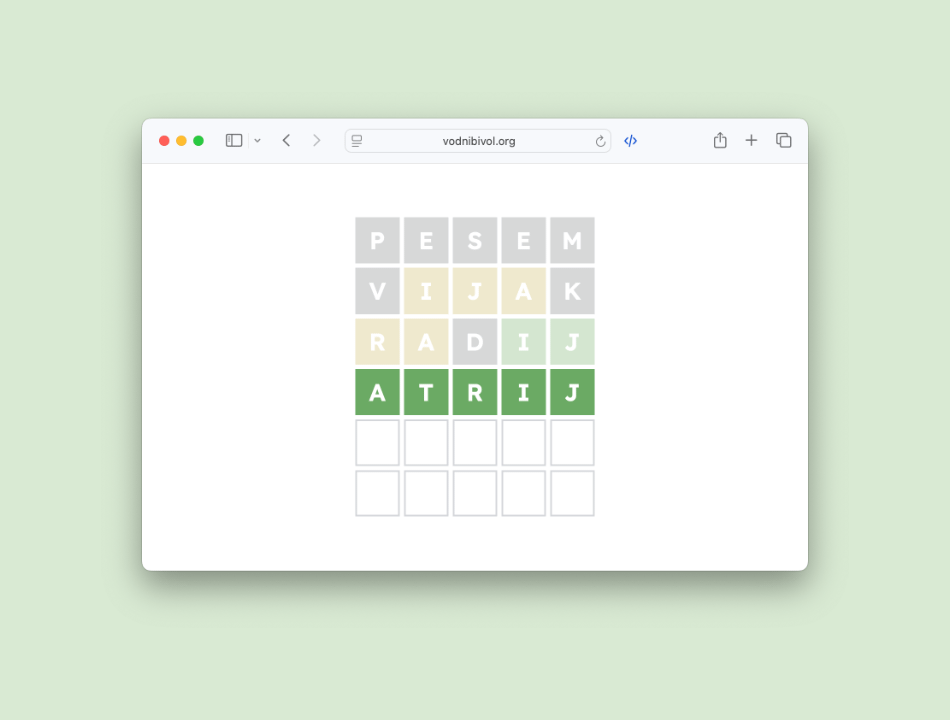
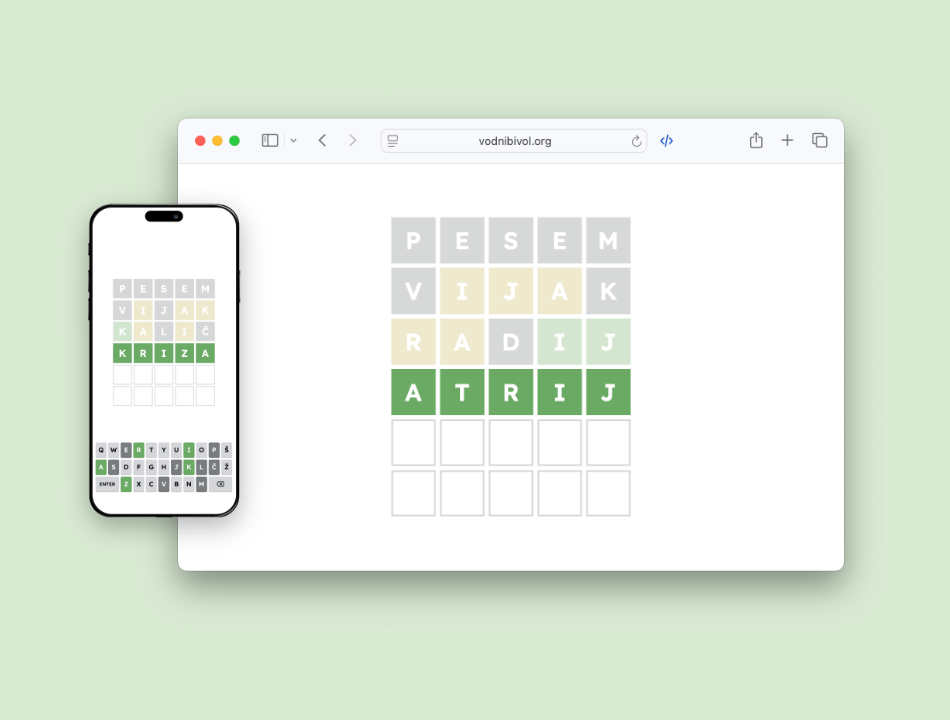
added og tags; modified some descriptions; iphone screenshots

diff --git a/portfolio/css/style.css b/portfolio/css/style.css
@@ -1,1 +1,1 @@
-@font-face{font-display:swap;font-family:"Poppins";font-style:normal;font-weight:300;src:url("../fonts/poppins-v23-latin-300.woff2") format("woff2")}@font-face{font-display:swap;font-family:"Poppins";font-style:normal;font-weight:400;src:url("../fonts/poppins-v23-latin-regular.woff2") format("woff2")}@font-face{font-display:swap;font-family:"Poppins";font-style:normal;font-weight:500;src:url("../fonts/poppins-v23-latin-500.woff2") format("woff2")}@font-face{font-display:swap;font-family:"Poppins";font-style:normal;font-weight:600;src:url("../fonts/poppins-v23-latin-600.woff2") format("woff2")}@font-face{font-display:swap;font-family:"Poppins";font-style:normal;font-weight:700;src:url("../fonts/poppins-v23-latin-700.woff2") format("woff2")}*{font-family:"Poppins","Helvetica Neue",Helvetica,Arial,sans-serif;box-sizing:border-box;margin:0;padding:0}body{line-height:1.7;-webkit-font-smoothing:antialiased}img,picture,video,canvas,svg{display:block;max-width:100%}input,button,textarea,select{font:inherit}a{color:unset;text-decoration:none}.no-pointer{pointer-events:none;-webkit-user-select:none;-moz-user-select:none;user-select:none}.noise::after{content:"";position:absolute;top:0;left:0;height:100%;width:100%;background:url("../img/noise.svg");background-size:100px;mix-blend-mode:hard-light;filter:brightness(0.8);opacity:.9;pointer-events:none;z-index:2}header{z-index:100;text-transform:uppercase;position:sticky;top:0;background:#000;display:flex;justify-content:space-between;align-items:center;padding:0 25px 0 15px;transition:filter .3s}header.white{filter:invert(1)}header .logo{font-size:22px;background:#000;padding:3px 9px;height:50px;width:50px;font-weight:700;display:flex;justify-content:center;align-items:center;padding-top:5px}@keyframes jump{0%{transform:translateY(0px)}100%{transform:translateY(-10px)}}header .logo img{width:20px}header .logo:hover{filter:invert(1)}header .logo:hover img{animation:jump .3s cubic-bezier(0.33, 1, 0.68, 1) alternate infinite}header nav.links{height:50px;display:flex;justify-content:center;align-items:center}header nav.links a{height:100%;padding:0 20px;text-align:center;display:flex;justify-content:center;align-items:center;font-weight:500;font-size:1rem;color:#fff}header nav.links a:hover{background:#fff;color:#000}section{padding:100px 50px;display:flex;justify-content:center;align-items:center}section h2{margin-bottom:30px;font-size:2.2rem;font-weight:600}section .content{width:100%;max-width:800px}section#hero{min-height:80vh;position:relative;color:#fff;border-color:#fff;background:#fb8a51;overflow:hidden}section#hero img.bg{z-index:1;position:absolute;top:0;left:0;height:100%;width:100%;-o-object-fit:cover;object-fit:cover;-o-object-position:center right;object-position:center right}section#hero .content{display:flex;align-items:center;justify-content:space-evenly;gap:30px;z-index:3}section#hero .content .left .img{width:280px;height:280px;overflow:hidden;border-radius:50%;z-index:999}section#hero .content .left .img img{width:100%;height:100%;-o-object-fit:cover;object-fit:cover;-o-object-position:center;object-position:center}section#hero .content .right{max-width:350px;display:flex;flex-direction:column}section#hero .content .right h1{margin-bottom:10px;font-size:2.3rem;font-weight:300}section#hero .content .right p{margin-bottom:20px;font-weight:400}section#hero .content .right .links{display:flex;gap:10px}section#hero .content .right .links a{display:flex;justify-content:center;align-items:center;gap:5px;border:2px solid #fff;padding:2px 7px;border-radius:5px;font-weight:700;font-size:.8rem;text-transform:uppercase;cursor:pointer;-webkit-user-select:none;-moz-user-select:none;user-select:none}section#hero .content .right .links a img{width:15px}section#hero .content .right .links a:hover{background:#fff;color:#000;mix-blend-mode:screen}section#hero .content .right .links a:hover img{filter:invert(1)}section#about-me{background:#fff;min-height:70vh}section#about-me p{margin-bottom:30px}section#projects{background:#000;color:#fff}section#projects .content>p{margin-bottom:30px}section#projects .content .project-grid{margin-top:3rem;display:grid;grid-template-columns:repeat(2, 1fr);row-gap:4rem;-moz-column-gap:clamp(1rem,4vw,3rem);column-gap:clamp(1rem,4vw,3rem);justify-content:center}section#projects .content .project-grid .grid-item{display:flex;flex-direction:column}section#projects .content .project-grid .grid-item .img{border-radius:8px;overflow:hidden;aspect-ratio:16/11;background:#fff;position:relative;cursor:pointer}section#projects .content .project-grid .grid-item .img img.thumbnail{width:100%;height:100%;-o-object-fit:cover;object-fit:cover;-o-object-position:center center;object-position:center center}section#projects .content .project-grid .grid-item .img img.open-icon{position:absolute;top:50%;left:50%;transform:translate(-50%, -50%);width:25px;opacity:.6;display:none}section#projects .content .project-grid .grid-item .img:hover img.thumbnail{opacity:.8}section#projects .content .project-grid .grid-item .img:hover img.open-icon{display:block}section#projects .content .project-grid .grid-item .title{display:flex;justify-content:flex-start;align-items:baseline;gap:10px}section#projects .content .project-grid .grid-item .title h3{margin-top:20px}section#projects .content .project-grid .grid-item .title h3:hover{text-decoration:underline}section#projects .content .project-grid .grid-item .title a.gh-link{display:flex;align-items:center;gap:5px;border-radius:30px;padding:2px;height:19px}section#projects .content .project-grid .grid-item .title a.gh-link img{width:15px}section#projects .content .project-grid .grid-item .title a.gh-link span{text-transform:uppercase;font-weight:700;font-size:11px;color:#000;display:none}section#projects .content .project-grid .grid-item .title a.gh-link:hover{padding:2px 6px 2px 2px;background:#fff}section#projects .content .project-grid .grid-item .title a.gh-link:hover img{filter:invert(1)}section#projects .content .project-grid .grid-item .title a.gh-link:hover span{display:block}footer{min-height:150px;display:flex;justify-content:center;align-items:center;position:relative;overflow:hidden;gap:5rem}footer img.bg{position:absolute;left:0;top:0;height:100%;width:100%;-o-object-fit:cover;object-fit:cover;-o-object-position:center;object-position:center;filter:hue-rotate(230deg);z-index:-1}footer a.contact-text{z-index:3;display:flex;justify-content:center;align-items:center;gap:10px;color:#fff}footer a.contact-text:hover{text-decoration:underline}footer a.contact-text img{width:14px}footer a.contact-text span{font-family:"Menlo",monospace;font-size:.9rem;font-weight:500;z-index:10}@media screen and (max-width: 700px){header nav.links a{padding:0 10px}section#hero{height:unset}section#hero .content{flex-direction:column-reverse}section#projects .content .project-grid{display:flex;flex-direction:column}footer{flex-direction:column;gap:1rem}}@media screen and (max-width: 500px){section#hero{padding-top:0}section#hero .content .left .img{border-radius:0;width:100vw;margin-bottom:3rem}}
+@font-face{font-display:swap;font-family:"Poppins";font-style:normal;font-weight:300;src:url("../fonts/poppins-v23-latin-300.woff2") format("woff2")}@font-face{font-display:swap;font-family:"Poppins";font-style:normal;font-weight:400;src:url("../fonts/poppins-v23-latin-regular.woff2") format("woff2")}@font-face{font-display:swap;font-family:"Poppins";font-style:normal;font-weight:500;src:url("../fonts/poppins-v23-latin-500.woff2") format("woff2")}@font-face{font-display:swap;font-family:"Poppins";font-style:normal;font-weight:600;src:url("../fonts/poppins-v23-latin-600.woff2") format("woff2")}@font-face{font-display:swap;font-family:"Poppins";font-style:normal;font-weight:700;src:url("../fonts/poppins-v23-latin-700.woff2") format("woff2")}*{font-family:"Poppins","Helvetica Neue",Helvetica,Arial,sans-serif;box-sizing:border-box;margin:0;padding:0}body{line-height:1.7;-webkit-font-smoothing:antialiased}img,picture,video,canvas,svg{display:block;max-width:100%}input,button,textarea,select{font:inherit}a{color:unset;text-decoration:none}.no-pointer{pointer-events:none;-webkit-user-select:none;-moz-user-select:none;user-select:none}.noise::after{content:"";position:absolute;top:0;left:0;height:100%;width:100%;background:url("../img/noise.svg");background-size:100px;mix-blend-mode:hard-light;filter:brightness(0.8);opacity:.9;pointer-events:none;z-index:2}header{z-index:100;text-transform:uppercase;position:sticky;top:0;background:#000;display:flex;justify-content:space-between;align-items:center;padding:0 25px 0 15px;transition:filter .3s}header.white{filter:invert(1)}header .logo{font-size:22px;background:#000;padding:3px 9px;height:50px;width:50px;font-weight:700;display:flex;justify-content:center;align-items:center;padding-top:5px}@keyframes jump{0%{transform:translateY(0px)}100%{transform:translateY(-10px)}}header .logo img{width:20px}header .logo:hover{filter:invert(1)}header .logo:hover img{animation:jump .3s cubic-bezier(0.33, 1, 0.68, 1) alternate infinite}header nav.links{height:50px;display:flex;justify-content:center;align-items:center}header nav.links a{height:100%;padding:0 20px;text-align:center;display:flex;justify-content:center;align-items:center;font-weight:500;font-size:1rem;color:#fff}header nav.links a:hover{background:#fff;color:#000}section{padding:100px 50px;display:flex;justify-content:center;align-items:center}section h2{margin-bottom:30px;font-size:2.2rem;font-weight:600}section .content{width:100%;max-width:800px}section#hero{min-height:80vh;position:relative;color:#fff;border-color:#fff;background:#fb8a51;overflow:hidden}section#hero img.bg{z-index:1;position:absolute;top:0;left:0;height:100%;width:100%;-o-object-fit:cover;object-fit:cover;-o-object-position:center right;object-position:center right}section#hero .content{display:flex;align-items:center;justify-content:space-evenly;gap:30px;z-index:3}section#hero .content .right .img{width:280px;height:280px;overflow:hidden;border-radius:50%;z-index:999}section#hero .content .right .img img{width:100%;height:100%;-o-object-fit:cover;object-fit:cover;-o-object-position:center;object-position:center}section#hero .content .left{max-width:390px;display:flex;flex-direction:column}section#hero .content .left h1{margin-bottom:10px;font-size:2.1rem;font-weight:300}section#hero .content .left p{margin-bottom:20px;font-weight:400;font-size:1.1rem}section#hero .content .left .links{display:flex;gap:10px}section#hero .content .left .links a{display:flex;justify-content:center;align-items:center;gap:5px;border:2px solid #fff;padding:2px 7px;border-radius:5px;font-weight:700;font-size:.8rem;text-transform:uppercase;cursor:pointer;-webkit-user-select:none;-moz-user-select:none;user-select:none}section#hero .content .left .links a img{width:15px}section#hero .content .left .links a:hover{background:#fff;color:#000;mix-blend-mode:screen}section#hero .content .left .links a:hover img{filter:invert(1)}section#about-me{background:#fff;min-height:70vh}section#about-me p{margin-bottom:30px}section#projects{background:#000;color:#fff}section#projects .content>p{margin-bottom:30px}section#projects .content .project-grid{margin-top:3rem;display:grid;grid-template-columns:repeat(2, 1fr);row-gap:4rem;-moz-column-gap:clamp(1rem,4vw,3rem);column-gap:clamp(1rem,4vw,3rem);justify-content:center}section#projects .content .project-grid .grid-item{display:flex;flex-direction:column}section#projects .content .project-grid .grid-item .img{border-radius:8px;overflow:hidden;aspect-ratio:16/11;background:#fff;position:relative;cursor:pointer}section#projects .content .project-grid .grid-item .img img.thumbnail{width:100%;height:100%;-o-object-fit:cover;object-fit:cover;-o-object-position:center center;object-position:center center}section#projects .content .project-grid .grid-item .img img.open-icon{position:absolute;top:50%;left:50%;transform:translate(-50%, -50%);width:25px;opacity:.6;display:none}section#projects .content .project-grid .grid-item .img:hover img.thumbnail{opacity:.8}section#projects .content .project-grid .grid-item .img:hover img.open-icon{display:block}section#projects .content .project-grid .grid-item .title{display:flex;justify-content:flex-start;align-items:baseline;gap:10px}section#projects .content .project-grid .grid-item .title h3{margin-top:20px}section#projects .content .project-grid .grid-item .title h3:hover{text-decoration:underline}section#projects .content .project-grid .grid-item .title a.gh-link{display:flex;align-items:center;gap:5px;border-radius:30px;padding:2px;height:19px}section#projects .content .project-grid .grid-item .title a.gh-link img{width:15px}section#projects .content .project-grid .grid-item .title a.gh-link span{text-transform:uppercase;font-weight:700;font-size:11px;color:#000;display:none}section#projects .content .project-grid .grid-item .title a.gh-link:hover{padding:2px 6px 2px 2px;background:#fff}section#projects .content .project-grid .grid-item .title a.gh-link:hover img{filter:invert(1)}section#projects .content .project-grid .grid-item .title a.gh-link:hover span{display:block}footer{min-height:150px;display:flex;justify-content:center;align-items:center;position:relative;overflow:hidden;gap:5rem}footer img.bg{position:absolute;left:0;top:0;height:100%;width:100%;-o-object-fit:cover;object-fit:cover;-o-object-position:center;object-position:center;filter:hue-rotate(230deg);z-index:-1}footer a.contact-text{z-index:3;display:flex;justify-content:center;align-items:center;gap:10px;color:#fff}footer a.contact-text:hover{text-decoration:underline}footer a.contact-text img{width:14px}footer a.contact-text span{font-family:"Menlo",monospace;font-size:.9rem;font-weight:500;z-index:10}@media screen and (max-width: 700px){header nav.links a{padding:0 10px}section#hero{height:unset}section#hero .content{flex-direction:column-reverse}section#projects .content .project-grid{display:flex;flex-direction:column}footer{flex-direction:column;gap:1rem}}@media screen and (max-width: 500px){section#hero{padding-top:0}section#hero .content .right .img{border-radius:0;width:100vw;margin-bottom:3rem}}

diff --git a/portfolio/index.html b/portfolio/index.html
@@ -5,6 +5,13 @@
     <meta name="viewport" content="width=device-width, initial-scale=1.0" />
     <link rel="stylesheet" href="css/style.css" />
 
+    <!-- OPEN GRAPH -->
+    <meta property="og:type" content="website" />
+    <meta property="og:title" content="Filip Kokol | Portfolio" />
+    <meta property="og:url" content="http://vodnibivol.org/portfolio/" />
+    <meta property="og:image" content="https://www.vodnibivol.org/portfolio/img/og_card.jpg" />
+    <meta property="og:description" content="Filip's programming portfolio!" />
+
     <!-- PRELOAD FONTS -->
     <link rel="preload" href="fonts/poppins-v23-latin-300.woff2" as="font" type="font/woff2" crossorigin />
     <link rel="preload" href="fonts/poppins-v23-latin-regular.woff2" as="font" type="font/woff2" crossorigin />
@@ -13,8 +20,9 @@
     <link rel="preload" href="fonts/poppins-v23-latin-700.woff2" as="font" type="font/woff2" crossorigin />
 
     <!-- PRELOAD IMAGES -->
-    <link rel="preload" href="img/me_sm.jpg" as="image" />
-    <link rel="preload" href="img/noise.svg" as="image" />
+    <link rel="preload" href="img/me_sm.jpg" as="image" fetchpriority="high" />
+    <link rel="preload" href="img/gradient.jpg" as="image" fetchpriority="high" />
+    <link rel="preload" href="img/noise.svg" as="image" fetchpriority="high" />
 
     <link rel="shortcut icon" href="favicon.ico" type="image/x-icon" />
 
@@ -36,25 +44,25 @@
     </header>
 
     <section id="hero" class="noise">
-      <img class="bg no-pointer" src="img/gradient.jpg" />
+      <img class="bg no-pointer" src="img/gradient.jpg" decoding="async" fetchpriority="high" />
 
       <div class="content">
-        <div class="right">
-          <h1>I'm Filip, a frontend web developer.</h1>
+        <div class="left">
+          <h1>I'm Filip, a programmer and frontend web developer.</h1>
           <p>
             I build clean, functional, and intuitive websites with a focus on user experience and maintainable code. I
             enjoy turning ideas into simple, effective digital products.
           </p>
           <div class="links">
-            <a href="https://github.com/vodnibivol" target="_blank"
-              ><img src="img/icons/github-1.svg" alt="github logo" />Github</a
-            >
-            <!-- <a href="https://www.linkedin.com" target="_blank"><img src="img/li-icon.png" alt="linkedin" />LinkedIn</a> -->
+            <a href="https://github.com/vodnibivol" target="_blank">
+              <img src="img/icons/github-1.svg" alt="github logo" />
+              <span>Github</span>
+            </a>
           </div>
         </div>
-        <div class="left">
+        <div class="right">
           <div class="img no-pointer">
-            <img src="img/me_sm.jpg" alt="me" />
+            <img src="img/me_sm.jpg" alt="me" decoding="async" fetchpriority="high" />
           </div>
         </div>
       </div>
@@ -69,8 +77,8 @@
           projects, games, animations, and useful tools for myself and others.
         </p>
         <p>
-          My background, however, is rooted in the arts. I studied piano for 15 years, completing conservatory training
-          before earning a bachelor’s degree in philosophy with a thesis on Zen and Japanese aesthetics. This education
+          My background, however, is in the arts. I studied piano for 15 years, completing conservatory training before
+          earning a bachelor’s degree in philosophy with a thesis on Zen and Japanese aesthetics. This education
           sharpened my appreciation for creativity, simplicity, and clarity — values that strongly influence both my
           design and my code.
         </p>
@@ -92,11 +100,13 @@
         <h2>My Personal Projects</h2>
         <p>
           Below you’ll find a selection of my projects. Some are older experiments with rougher edges, while others are
-          more recent and polished. Together, they show my growth and approach as a developer.
+          more recent and polished. I’ve also worked with frameworks like Vue.js and some smaller libraries such as
+          Alpine.js, and I’m always eager to pick up new tools and technologies.You can also find some of my full-stack
+          and backend experiments on GitHub.
         </p>
         <p>
-          Some are in Slovene language and it wouldn’t really make sense to translate them, so I’ve included GitHub
-          links next to the titles, to explore their code.
+          Some of the projects are in Slovene, and it wouldn’t make sense to translate them, so I’ve included a GitHub
+          link next to each title for you to explore the code directly.
         </p>
         <div class="project-grid">
           <!-- template -->
@@ -111,7 +121,7 @@
               <div class="title">
                 <a href="{{ link }}" target="_blank"><h3>{{ title }}</h3></a>
                 <a class="gh-link" href="{{ github_link }}" target="_blank">
-                  <img src="img/icons/github-1.svg" alt="github logo"/>
+                  <img src="img/icons/github-1.svg" alt="github logo" />
                   <span>github</span>
                 </a>
               </div>

diff --git a/portfolio/js/script.js b/portfolio/js/script.js
@@ -72,7 +72,7 @@ const Main = (function () {
       {
         title: 'Learn World Flags',
         description:
-          'This is a PC-based educational game i built for myself that teaches you world flags, organized by continent.',
+          'This is a PC-based educational game I built for myself that teaches you world flags, organized by continent.',
         img_src: 'img/thumbs/zastavice.png',
         link: '/zastavice',
         github_link: 'https://github.com/vodnibivol/vodnibivol.github.io/tree/master/zastavice',
@@ -87,7 +87,7 @@ const Main = (function () {
       },
       {
         title: 'Wordle Clone',
-        description: 'A Slovenian-language translation of a famous game, Wordle, using self-compiled word dictionaries.',
+        description: 'A Slovenian-language translation of a famous game, Wordle, using self-compiled word dictionaries. My first PWA that works offline.',
         img_src: 'img/thumbs/besedle.png',
         link: '/besedle',
         github_link: 'https://github.com/vodnibivol/vodnibivol.github.io/tree/master/besedle',

diff --git a/portfolio/css/style.scss b/portfolio/css/style.scss
@@ -185,7 +185,7 @@ section#hero {
     gap: 30px;
     z-index: 3;
 
-    .left .img {
+    .right .img {
       width: 280px;
       height: 280px;
       overflow: hidden;
@@ -201,21 +201,22 @@ section#hero {
       }
     }
 
-    .right {
-      max-width: 350px;
+    .left {
+      max-width: 390px;
       display: flex;
       flex-direction: column;
       // gap: 20px;
 
       h1 {
         margin-bottom: 10px;
-        font-size: 2.3rem;
+        font-size: 2.1rem;
         font-weight: 300;
       }
 
       p {
         margin-bottom: 20px;
         font-weight: 400;
+        font-size: 1.1rem;
       }
 
       .links {
@@ -463,7 +464,7 @@ footer {
   section#hero {
     padding-top: 0;
 
-    .content .left .img {
+    .content .right .img {
       border-radius: 0;
       width: 100vw;
       margin-bottom: 3rem;
